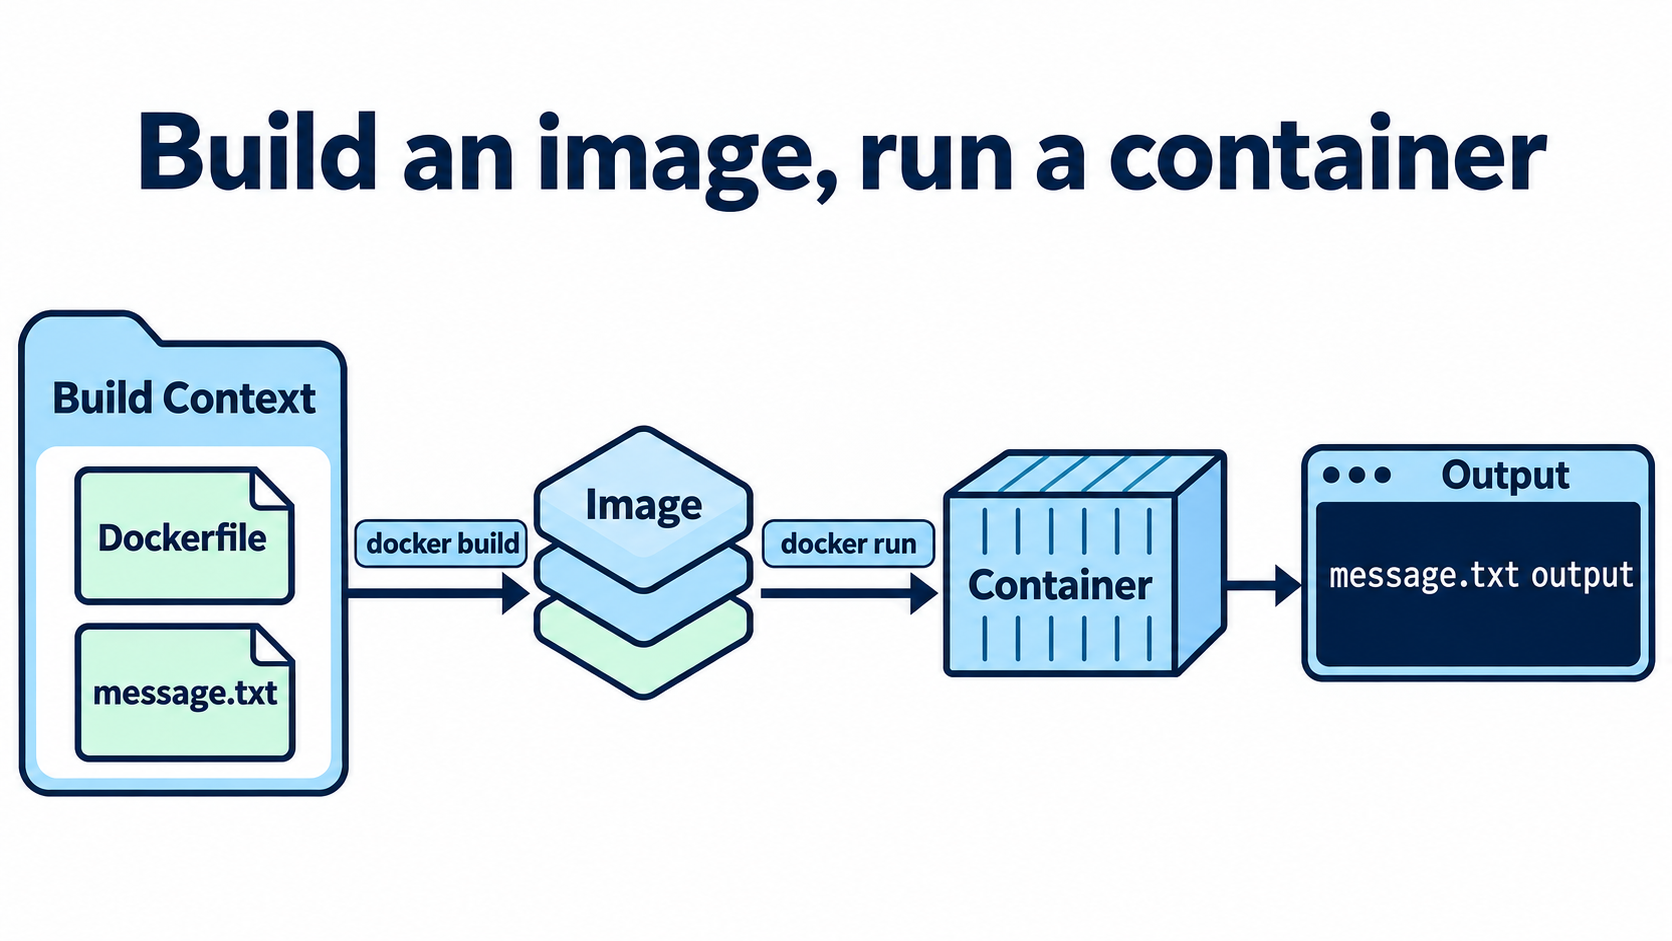
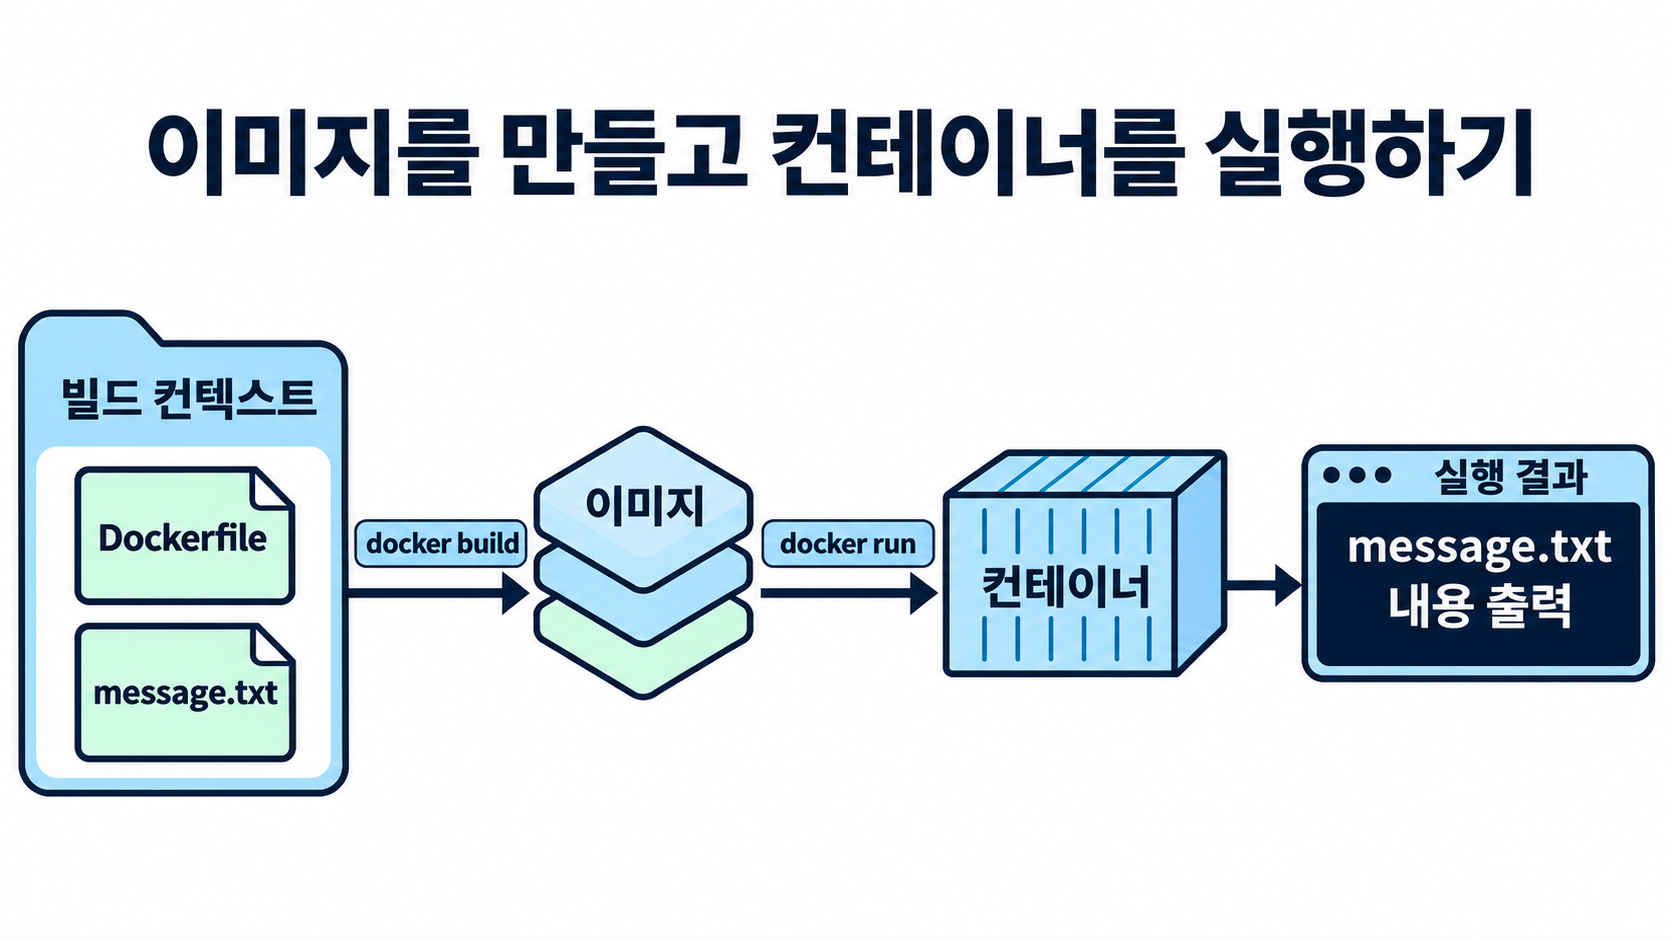
Localize week 8 lab diagrams into Korean

diff --git a/week08/README.md b/week08/README.md
@@ -381,6 +381,8 @@ sudo docker run --rm cv8-order-b:v2 sh -c 'cat /app/message.txt; curl --version'
 
 **그림 읽기:** 이미지의 파일은 공통 출발점이며 쓰기 가능 레이어는 컨테이너마다 다릅니다. 그림의 파일 내용은 각 컨테이너에서 보이는 결합된 파일시스템을 뜻합니다. B와 새 실행의 원본 파일이 쓰기 레이어에 복사되었다는 뜻은 아닙니다. A의 변경·생성·삭제가 B와 새 실행에 영향을 주는지 비교합니다. **볼륨과 Bind Mount를 연결하지 않은 조건**입니다.
 
+그림의 ‘원본 데이터’와 ‘A에서 수정한 내용’은 아래 실제 출력인 `Original Data`와 `Modified by Container A`의 의미를 한글로 표현한 것입니다.
+
 **명령 27: 오래 실행되는 이미지의 파일 작성 — 호스트 Bash**
 
 ```bash
@@ -501,6 +503,8 @@ sudo docker diff cv8-a
 ![stop과 start는 같은 컨테이너의 data.txt를 유지하고 rm 후 새 run은 새 ID와 빈 쓰기 레이어로 시작하는 비교](images/05-lifecycle.png)
 
 **그림 읽기:** 이미지에 있던 `message.txt`와 실행 후 만든 `data.txt`를 구분합니다. 같은 컨테이너를 다시 시작하는 경우와 같은 이미지로 새 컨테이너를 만드는 경우는 다릅니다.
+
+그림의 ‘삭제 전까지 유지’는 실제 출력 `Persistent Until Remove`의 의미입니다. 명령어와 파일명은 실습에서 사용하는 표기를 그대로 유지했습니다.
 
 **명령 39: 수명주기 관찰용 컨테이너 생성 — 호스트 Bash**
 

diff --git a/week08/VALIDATION.md b/week08/VALIDATION.md
@@ -120,6 +120,8 @@ rm/run:
 
 학생 관점의 별도 검토에서 48개 명령의 선행 조건과 관찰 지점을 확인했습니다. 각 명령의 Bash 문법 검사 48/48개를 통과했고, 문서 전체의 Bash 코드블록 49개도 문법 검사에 통과했습니다. 그림 5개의 가독성·내용 대응과 문서의 상대 링크를 확인했습니다.
 
+그림 5장의 제목·설명·상태 표시는 한국어로 교체했습니다. 명령어·파일명·경로는 실제 표기를 유지하고, 파일 내용의 의미를 한글로 표시한 그림에는 실제 출력과의 대응을 본문에 안내했습니다. 실습 명령은 변경하지 않았습니다.
+
 이 검증은 한 수업 VM에서 수행한 결과입니다. 다른 VM의 패키지·네트워크 상태, 향후 이미지 태그 변경까지 보장하지는 않습니다. `docker diff`와 파일 내용 비교로 변경의 독립성을 관찰했으며, 커널 내부의 실제 copy-up 순간이나 호스트 저장 경로를 직접 추적한 실험은 아닙니다.
 
 SSH 접속 정보와 인증 정보는 공개 문서에 포함하지 않았습니다.
